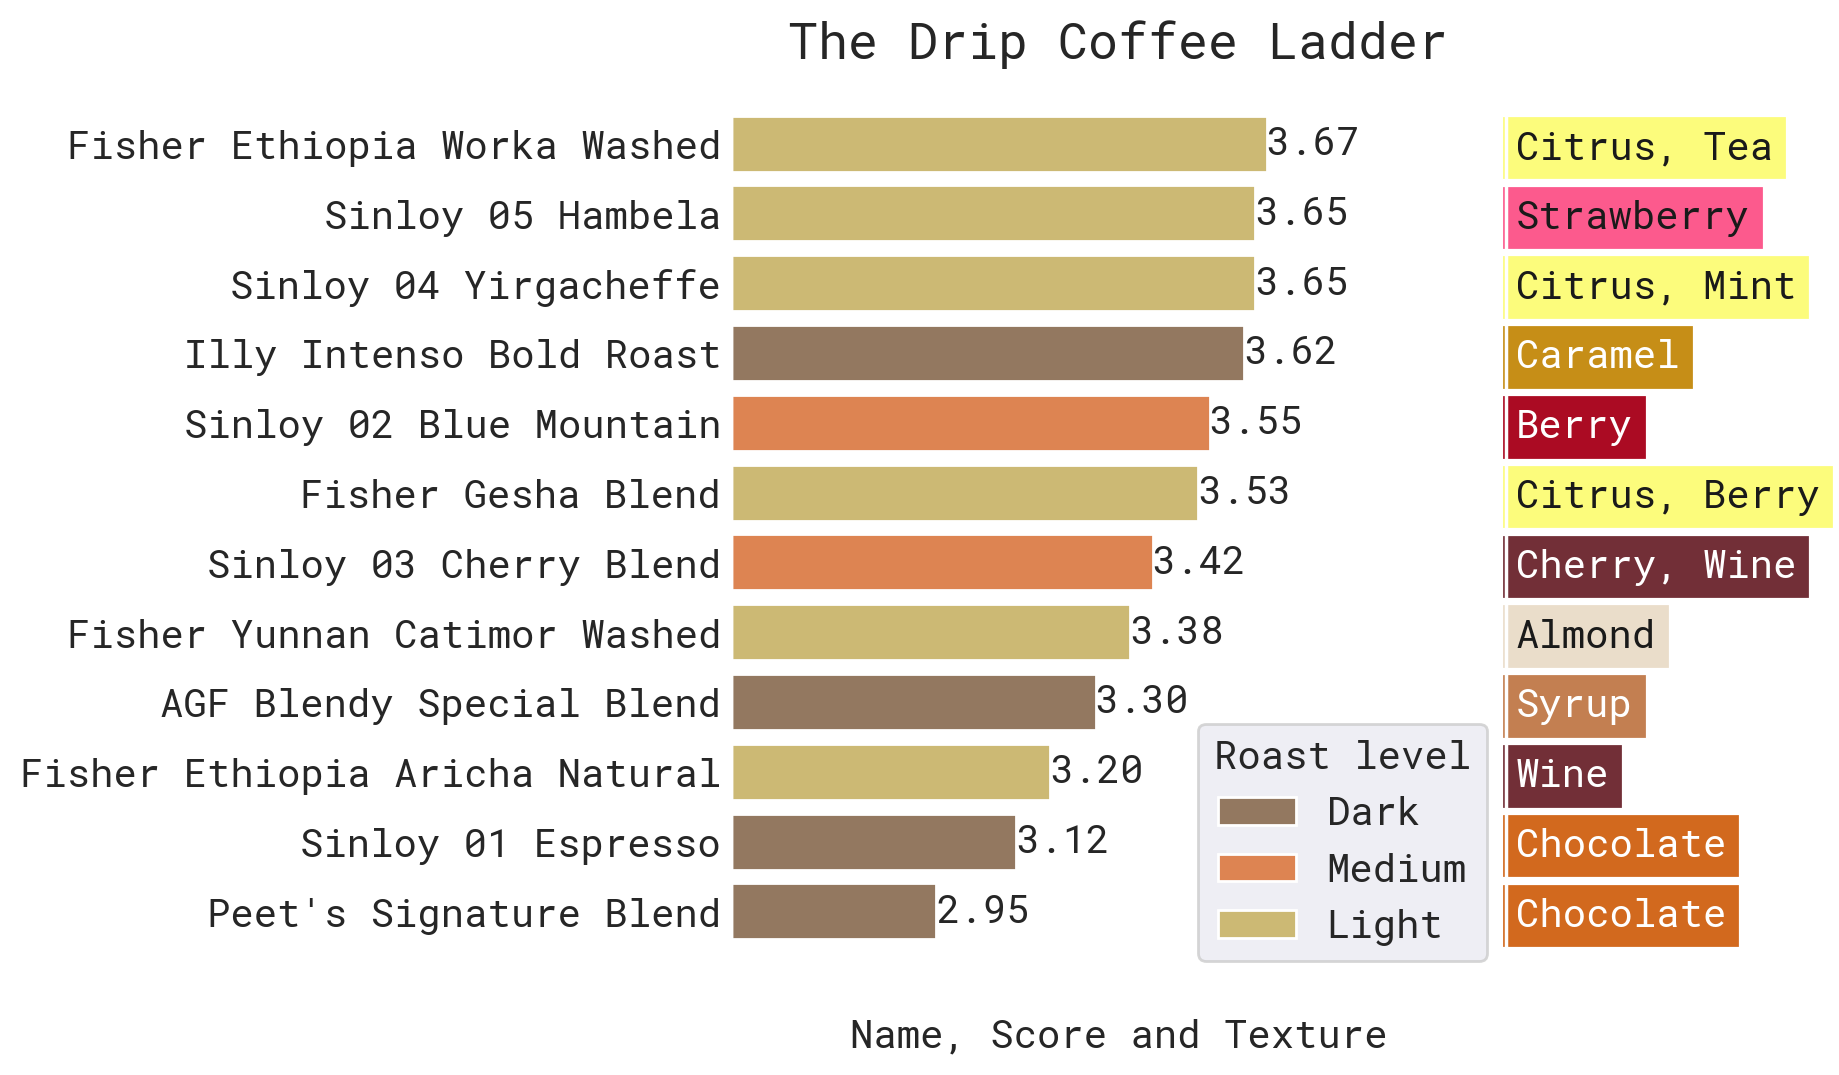
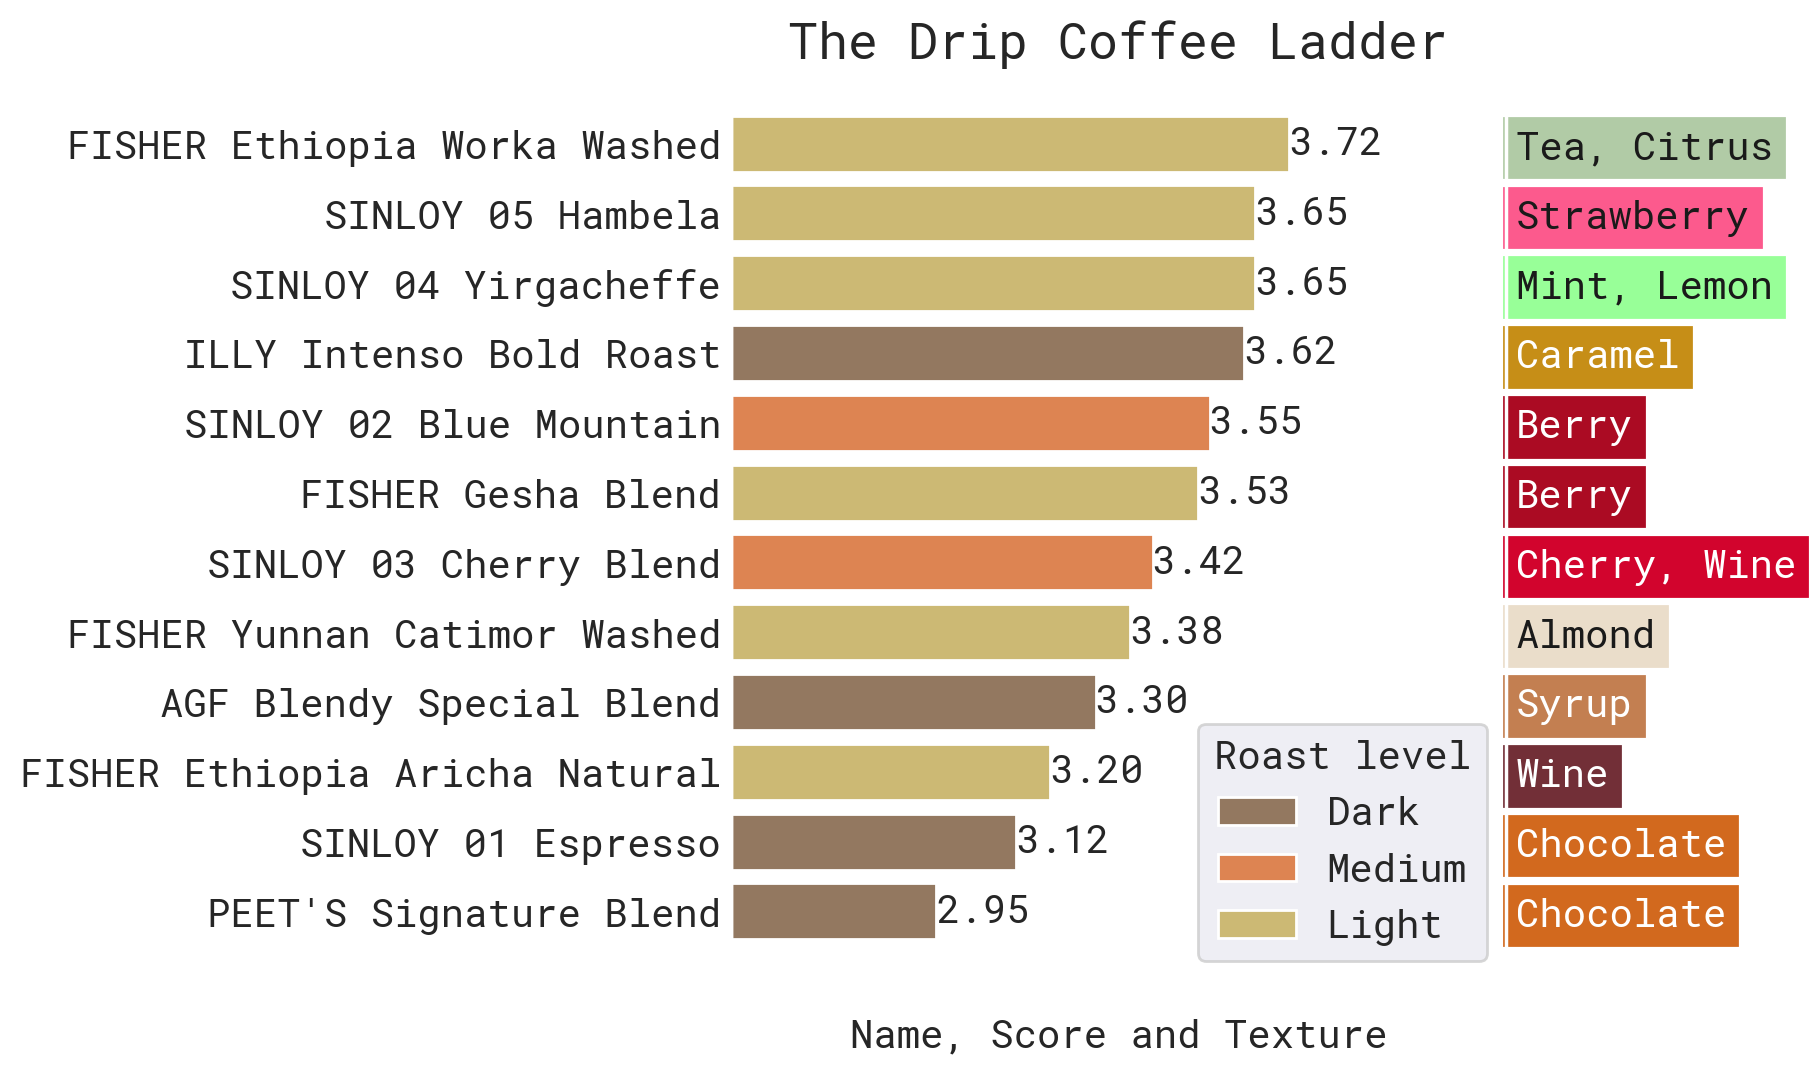
coffee update

diff --git a/_posts/2021-11-11-coffee-ladder.md b/_posts/2021-11-11-coffee-ladder.md
@@ -22,75 +22,70 @@ On the contrary, the evaluative criteria shows how much credit I give to each as
 
 ## The Ladder
 
-![](https://jiaxi-github-pages-photohost.oss-cn-beijing.aliyuncs.com/pyreneesalpaca/images/2021-11-11-coffee-ladder.png)
+![](https://jiaxi-github-pages-photohost.oss-cn-beijing.aliyuncs.com/pyreneesalpaca/images/2021-11-11-cofee-ladder.png)
 
 ## Detailed Reviews
 
-- **Sinloy 01 Espresso: Dark Roast, Chocolate, Score: 3.1**
+- **Sinloy 01 Espresso: Dark Roast, Chocolate**
   - **Flavor: 3.0**. Strong and bitter, but not much enjoyable.
   - **Aftertaste: 2.5**. Chocolatey, but then deteriorates into causticness.
   - **Aroma: 3.0**. Chocolatey smell with ok quality.
   - **Cost-effectiveness: 4.0**. Costs 1.7 RMB per bag.
-- **Sinloy 02 Blue Mountain: Medium Roast, Berry, Score: 3.6**
+- **Sinloy 02 Blue Mountain: Medium Roast, Berry**
   - **Flavor: 3.8**. A balanced roast in all means.
   - **Aftertaste: 3.0**. Starts ok with blueberry, but then sourness grows with time.
   - **Aroma: 2.0**. Probably cocoa or chocolate. Raw and not enjoyable.
   - **Cost-effectiveness: 4.5**. Pretty good for just under 1.7 RMB per bag.
-- **Sinloy 03 Cherry Blend: Medium Roast, Cherry and Wine, Score: 3.4**
+- **Sinloy 03 Cherry Blend: Medium Roast, Cherry and Wine**
   - **Flavor: 3.3**. A big blend of fruits. Feels a bit artificial to me.
   - **Aftertaste: 3.0**. Starts with wine, but loses freshness with time.
   - **Aroma: 3.5**. Fresh cherry smell.
   - **Cost-effectiveness: 4.0**. One of the expensive roasts in the Sinloy lineup at 2.4 RMB per bag.
-- **Sinloy 04 Yirgacheffe: Light Roast, Citrus and Mint, Score: 3.7**
+- **Sinloy 04 Yirgacheffe: Light Roast, Mint and Lemon**
   - **Flavor: 3.6**. The acidity is catchy, but feels like being shelved for years though.
   - **Aftertaste: 4.5**. Sharp sour aftertaste, with lingering lemon and mint flavor. The best part of the experience.
   - **Aroma: 2.5**. The light citrus smell checks out with its flavor but vanishes quickly.
   - **Cost-effectiveness: 4.0**. Lives up to expectation as the most expensive roast among the Sinloy lineup at 3.5 RMB per bag.
-- **Sinloy 05 Hambela: Light Roast, Strawberry, Score: 3.7**
+- **Sinloy 05 Hambela: Light Roast, Strawberry**
   - **Flavor: 3.6**. Fresh sweet flavor. For me the sweetness is a bit too much so that the coffee tastes like juice.
   - **Aftertaste: 3.5**. Strawberry and passion fruit. It doesn't finish well though, tastes like artificial fructose in the end.
   - **Aroma: 3.5**. Strawberry, has that artificial feeling too.
   - **Cost-effectiveness: 4.0**. For 3.4 RMB per bag it's ok.
-- **Illy Intenso Bold Roast: Dark Roast, Caramel, Score: 3.6**
+- **Illy Intenso Bold Roast: Dark Roast, Caramel**
   - **Flavor: 3.8**. Strong bitter flavor. The heavy body is unique and enjoyable.
   - **Aftertaste: 3.5**. Smoky, nutty aftertaste that lasts.
   - **Aroma: 4.0**. The caramel smell checks out with its flavor.
   - **Cost-effectiveness: 3.0**. I was a frequent buyer when it was around 5 RMB per bag. But for over 7.1 RMB per bag now, it takes a second thought.
-- **AGF Blendy Special Blend: Dark Roast, Syrup, Score: 3.3**
+- **AGF Blendy Special Blend: Dark Roast, Syrup**
   - **Flavor: 3.0**. Mild bitter flavor with sparkling sweet. Not a fan of this setup but I can understand why.
   - **Aftertaste: 2.5**. Artificial sweet aftertaste without variety.
   - **Aroma: 3.5**. Vanilla and syrup.
   - **Cost-effectiveness: 4.5**. Surprisingly cheap at 2 RMB per bag.
-- **Peet's Signature Blend: Dark Roast, Chocolate, Score: 3.0**
+- **Peet's Signature Blend: Dark Roast, Chocolate**
   - **Flavor: 3.0**. A weird dark roast. Smells sweet but acidity gradually takes over.
   - **Aftertaste: 3.0**. Starts with dark chocolate, then sourness loses control.
   - **Aroma: 4.0**. Chocolate and caramel. 
   - **Cost-effectiveness: 2.0**. An easy pass at 7.6 RMB per bag.
-- **Fisher Gesha Blend: Light Roast, Berry, Score: 3.5**
+- **Fisher Gesha Blend: Light Roast, Berry**
   - **Flavor: 3.5**. Fruity themed flavor. Enjoyable overall but could use a bit more distinction.
   - **Aftertaste: 4.0**. Starts with berry, then acidity picks up as coffee cools down.
   - **Aroma: 2.5**. Very weak fruity smell.
   - **Cost-effectiveness: 4.0**. Not bad at 3.2 RMB per bag.
-- **Fisher Ethiopia Worka Washed: Light Roast, Citrus and Tea, Score: 3.7**
-  - **Flavor: 3.5**. Floral and tea themed flavor. Similar taste with Yirgacheffe.
+- **Fisher Ethiopia Worka Washed: Light Roast, Tea and Citrus**
+  - **Flavor: 3.6**. Floral and tea themed flavor. Similar taste with Yirgacheffe.
   - **Aftertaste: 3.0**. Nothing special at beginning. Citrus takes over after coffee cools down.
   - **Aroma: 4.5**. Very fun aroma. Floral scent with a hidden note of green tea.
   - **Cost-effectiveness: 4.0**. Good quality at 3.2 RMB per bag.
-- **Fisher Ethiopia Aricha Natural: Light Roast, Wine, Score: 3.2**
+- **Fisher Ethiopia Aricha Natural: Light Roast, Wine**
   - **Flavor: 3.2**. Fruity themed flavor. Lack of variety and the acidity doesn't develop well.
   - **Aftertaste: 3.0**. Nothing special except from a weak note of, possibly, mango.
   - **Aroma: 3.0**. Fruit wine, but fades quickly.
   - **Cost-effectiveness: 3.5**. I have higher expectation for this roast.
-- **Fisher Yunnan Zuo's Catimor Washed: Light Roast, Almond, Score: 3.4**
+- **Fisher Yunnan Zuo's Catimor Washed: Light Roast, Almond**
   - **Flavor: 3.7**. Smooth touch and trivial sweetness. Despite all of this, Catimor isn't a perfect match for light roast.
   - **Aftertaste: 3.0**. Almond.
   - **Aroma: 2.5**. Nothing special.
   - **Cost-effectiveness: 3.5**. Yunnan Catimor should be the cheapest in the 5x4 mix package.
-- **Fisher Kenya Dormans Washed: Light Roast, Chocolate, Score: **
-  - **Flavor: **.
-  - **Aftertaste: **. 
-  - **Aroma: **. 
-  - **Cost-effectiveness: **
 
 
 
